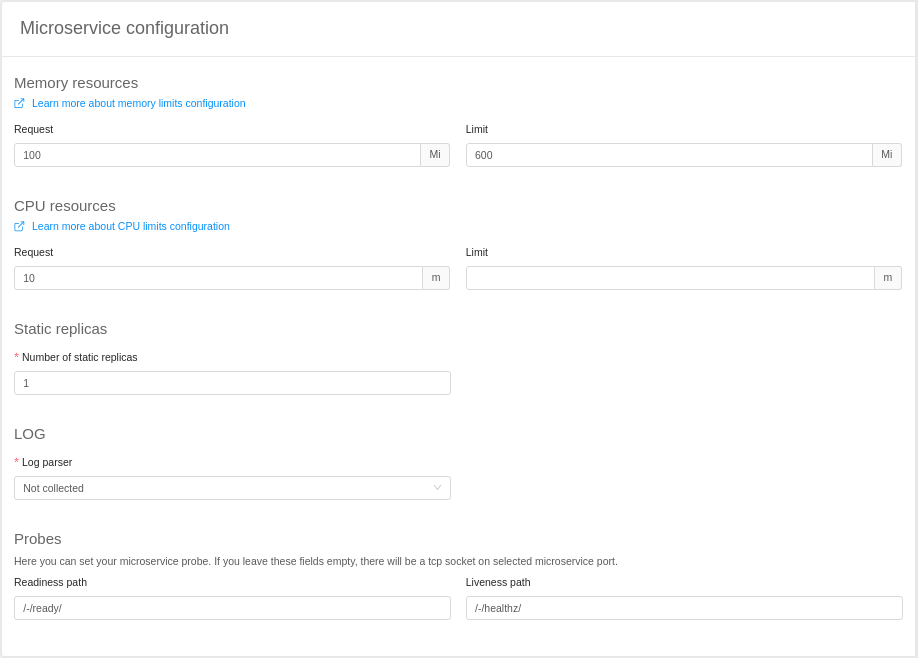
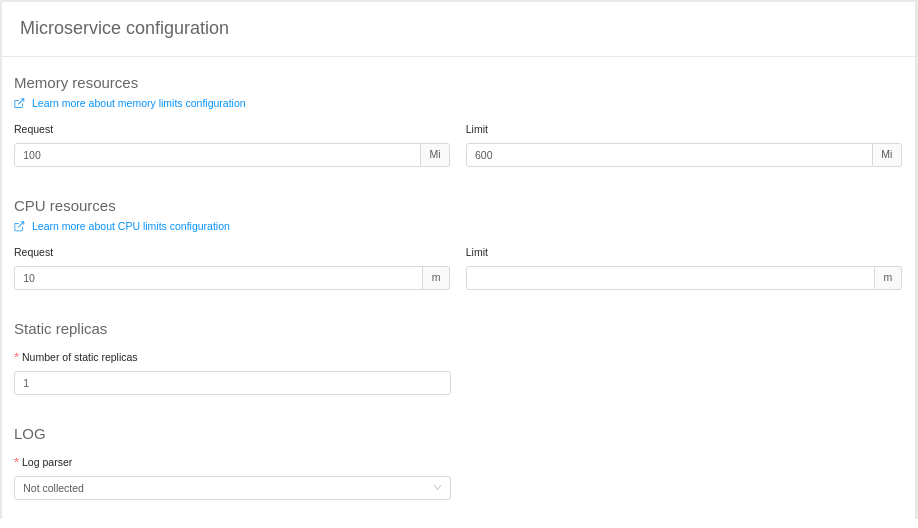
feat(RJMR-18): Runtime probes

diff --git a/docs/development_suite/api-console/api-design/microservice-probes-resources.md b/docs/development_suite/api-console/api-design/microservice-probes-resources.md
@@ -1,0 +1,46 @@
+---
+id: microservice-probes-resources
+title: Microservice Probes Resources
+sidebar_label: Define Probes resources
+---
+In the Runtime card, you can specify the container Rediness and Liveness probe.
+
+![runtime-section](img/runtime-section.png)
+
+### Probes
+In this section it is possible configure the following fields:
+
+ - Path
+ - Initial delay seconds
+ - Period seconds
+ - Timeout seconds
+ - Success threshold
+ - Failure threshold
+
+#### Path
+For Readiness field default is `/-/ready/`.
+For Liveness field default is `/-/healthz/`.
+If you leave these fields empty, there will be a tcp socket on the provided microservice port (set using `HTTP_PORT` environment variable).
+
+If your probes are available on a different path you can customize them to specify the proper route to be used to access the HTTP server.
+
+#### Initial delay seconds
+Use this value to specify the number of seconds that need to pass after the container has started before the probe is invoked for the first time.
+
+#### Period seconds
+This value controls how often the probe needs to be invoked (Kubernetes default is 10 seconds, minimum value is 1).
+
+#### Timeout seconds: 
+This value controls the probe timeout in seconds (Kubernetes default is 1 second, minimum value is 1).
+
+#### Success threshold:
+This value controls the minimum consecutive successes for the probe to be considered successful (Kubernetes default value is 1, minimum value is 1).
+
+:::warning
+For livenessProbe this parameter has a fixed value of 1
+:::
+
+#### Failure threshold: 
+This value controls the minimum consecutive failures for the probe to be considered failed after having succeeded. (Kubernetes default value is 3, minimum value is 1).
+
+To learn more about probes, please visit the [Kubernetes official API documentation](https://kubernetes.io/docs/reference/generated/kubernetes-api/v1.19/#probe-v1-core).

diff --git a/docs/development_suite/api-console/api-design/services.md b/docs/development_suite/api-console/api-design/services.md
@@ -132,12 +132,11 @@ In this section, you can manage the resources dedicated to your microservice:
   * *mia-plain*: it collects logs but it does not parse them
   * *not collected*: it is the default option, it does not collect logs and they are not sent to Elastic
 
-  See more about the log parsers on the [guidelines](../../../getting_started/monitoring-dashboard/dev_ops_guide/log)  
-
-* **Probes**: Here you can set your microservice probes, which are routes used by Kubernetes cluster to know if the microservice is working (liveness) and ready to receive requests (readiness). These fields are valorized by default. If you leave these fields empty, there will be a tcp socket on the selected microservice port.
-
+  See more about the log parsers on the [guidelines](../../../getting_started/monitoring-dashboard/dev_ops_guide/log)
 
  ![service-detail-configuration](img/service-detail-configuration.png)
+
+* **Probes**: Se more about probes in this [page](./microservice-probes-resources.md) 
 
 ### Environment Variable Configuration
 
